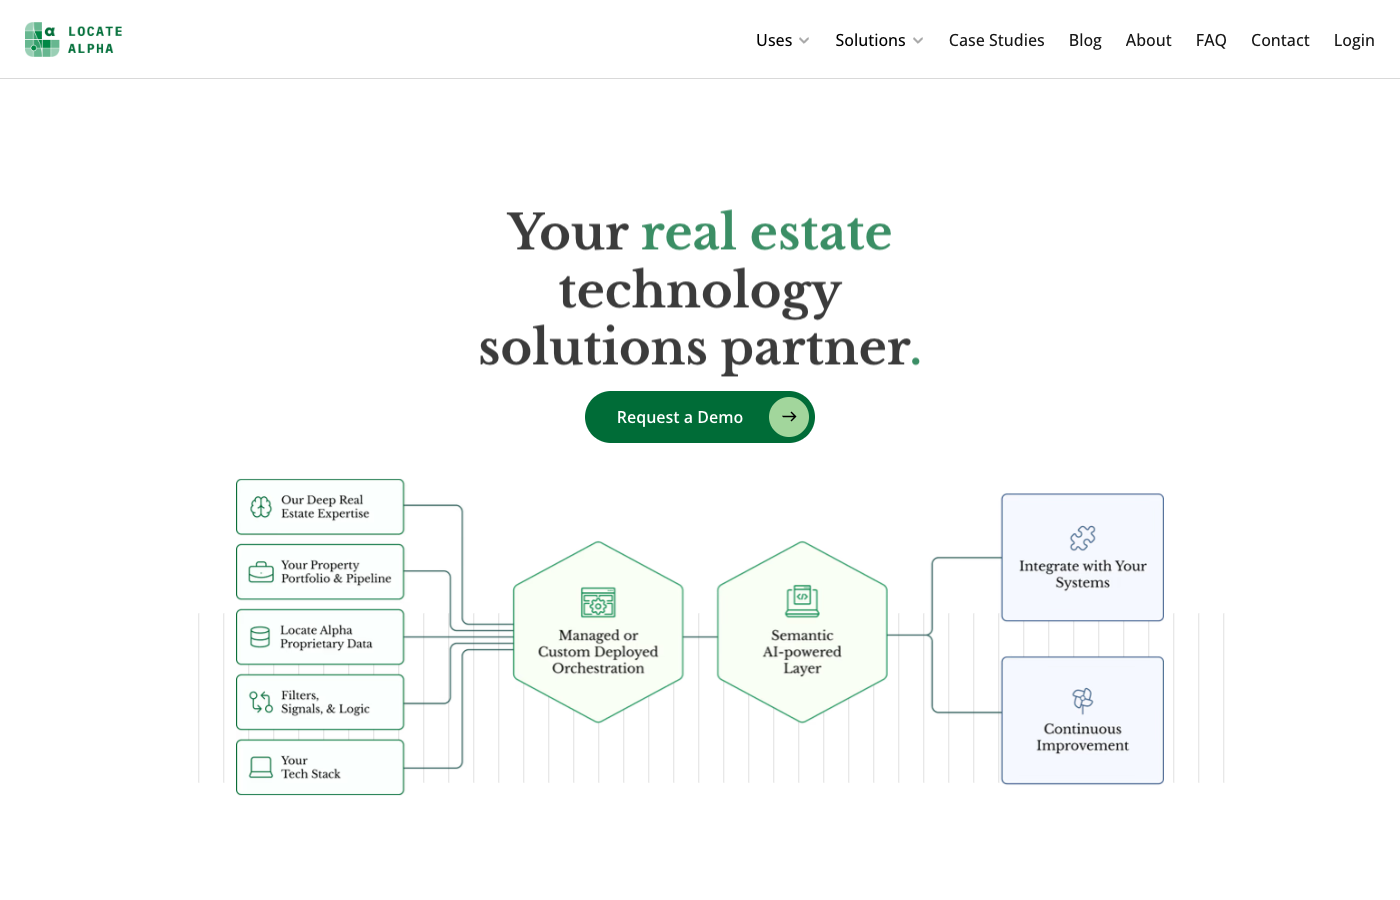
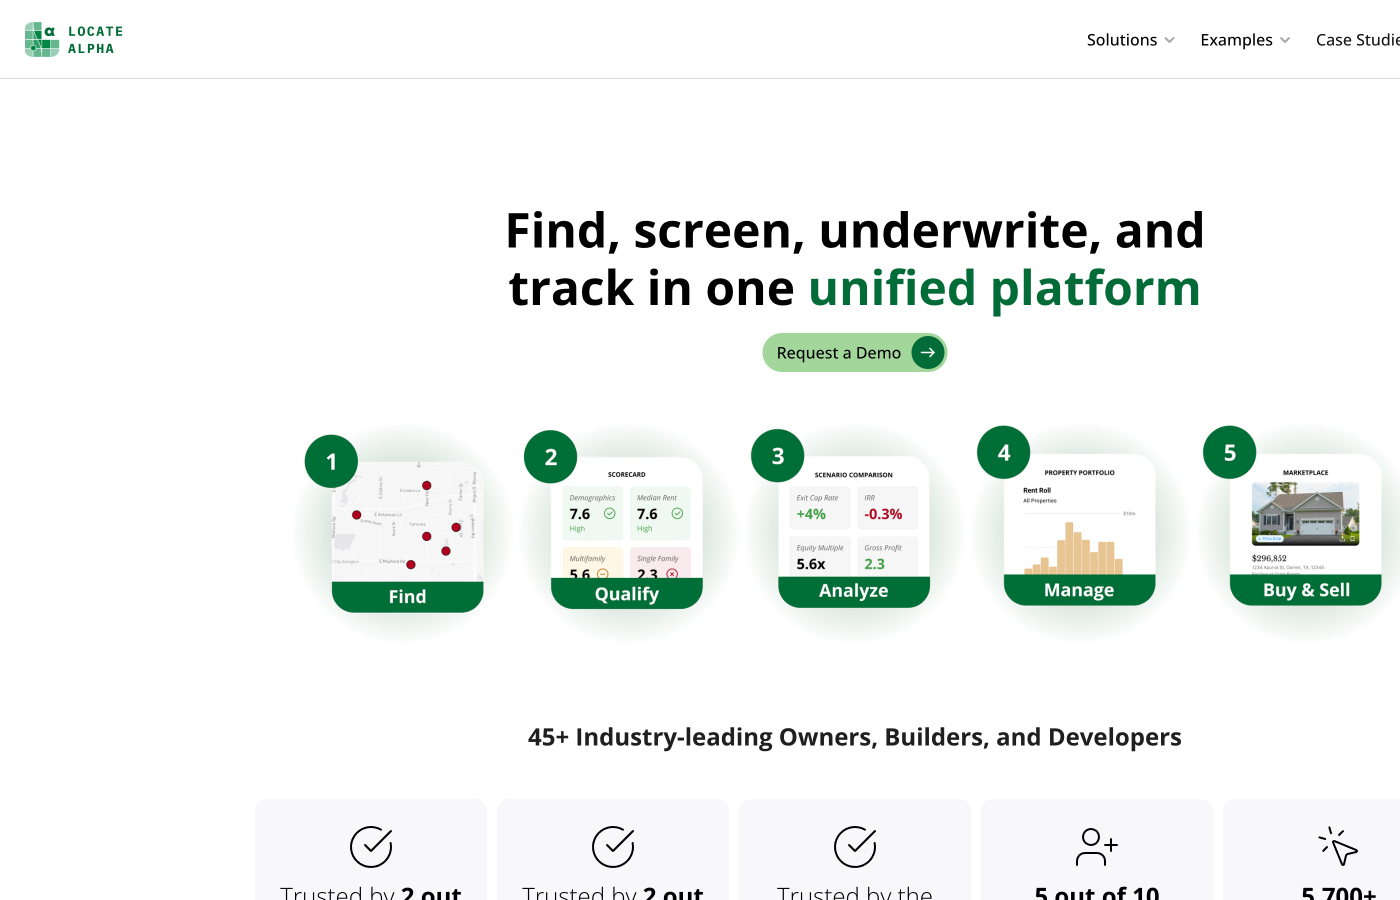
images

diff --git a/css/styles.css b/css/styles.css
@@ -382,6 +382,20 @@ button { font-family: var(--font); cursor: pointer; border: none; background: no
 .card__thumb--3 { background: #FBF2DC; }
 .card__thumb--4 { background: #E8F3EC; }
 
+.card__thumb--coming-soon {
+  display: flex;
+  align-items: center;
+  justify-content: center;
+}
+.card__coming-soon {
+  font-size: var(--text-sm);
+  font-weight: 500;
+  letter-spacing: 0.08em;
+  text-transform: uppercase;
+  color: var(--color-text-muted);
+  opacity: 0.5;
+}
+
 .card__body {
   padding: 20px 0 24px;
   flex: 1;

diff --git a/index.html b/index.html
@@ -73,8 +73,8 @@
           <!-- Card 2 — Dreamfinders -->
           <article class="card">
             <a href="dreamfinders.html" class="card__link" aria-label="View Dreamfinders Custom Marketplace case study">
-              <div class="card__thumb card__thumb--3">
-                <img src="images/projects/dreamfinders.png" alt="Dreamfinders Custom Marketplace interface screenshot" loading="lazy" />
+              <div class="card__thumb card__thumb--3 card__thumb--coming-soon">
+                <span class="card__coming-soon">Coming Soon</span>
               </div>
               <div class="card__body">
                 <h3 class="card__title">Dreamfinders Custom Marketplace</h3>